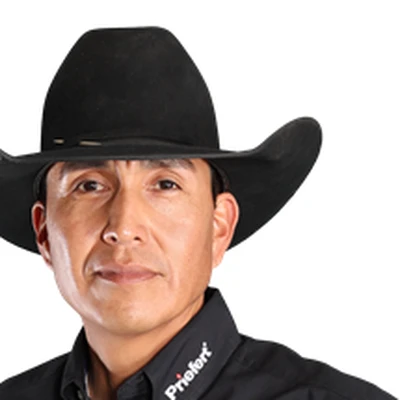
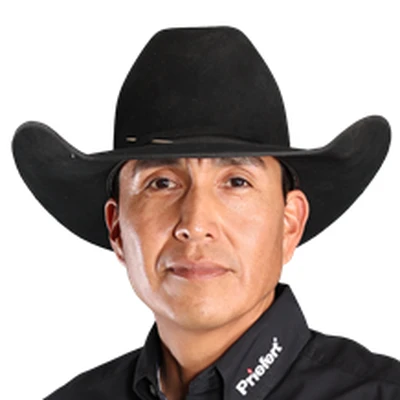
Center Derrick Begay headshot; mark email setup done
Claude-Session: https://claude.ai/code/session_01V8s3CKwnckeHUHwkuLmVK7

diff --git a/AGENTS.md b/AGENTS.md
@@ -75,6 +75,8 @@ These need a human logged into GoDaddy, GitHub settings, or Google Admin. An age
 Repo Settings → Pages → tick **Enforce HTTPS** once GitHub finishes issuing the certificate (up to 24 hours after the DNS check passes). If still unavailable after 24 hours: Remove the custom domain, re-enter `allinforchampions.org`, Save.
 
 ### Email: info@allinforchampions.org
+**Status: set up (Oct. 2026).** Steps kept for reference.
+
 **Decision:** add the domain to Seven X Custom Jewelry's existing Google Workspace as a secondary domain, with `info@` as a free Google Group. **Long term:** move to the charity's own Google Workspace for Nonprofits account (free with 501(c)(3) verification) after the December event, so the charity's email isn't owned by a for-profit business.
 
 Steps (Seven X super admin, admin.google.com):
